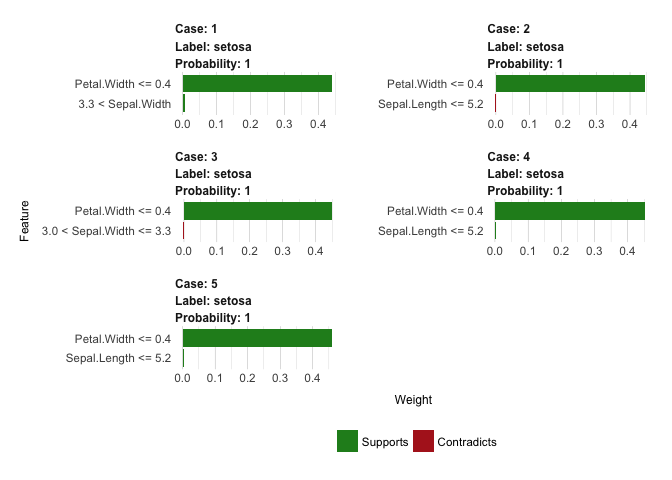
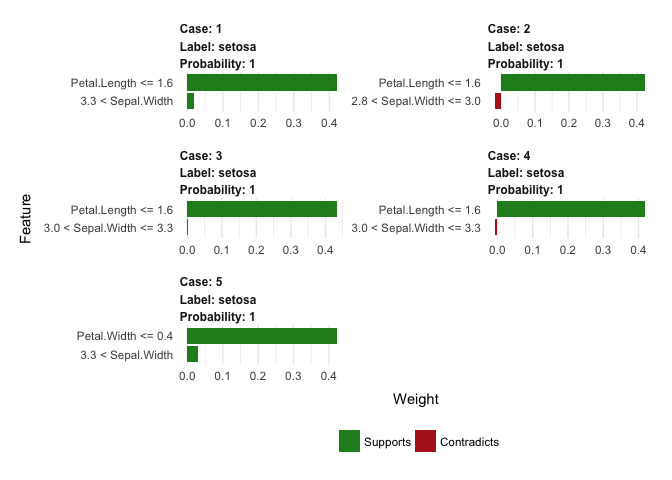
Prepare for CRAN

diff --git a/README.md b/README.md
@@ -5,7 +5,7 @@ lime <img src="man/figures/lime_logo.jpg" align="right" />
 
 [![Travis-CI Build Status](https://travis-ci.org/thomasp85/lime.svg?branch=master)](https://travis-ci.org/thomasp85/lime) [![AppVeyor Build Status](https://ci.appveyor.com/api/projects/status/github/thomasp85/lime?branch=master&svg=true)](https://ci.appveyor.com/project/thomasp85/lime) [![CRAN\_Release\_Badge](http://www.r-pkg.org/badges/version-ago/lime)](https://CRAN.R-project.org/package=lime) [![CRAN\_Download\_Badge](http://cranlogs.r-pkg.org/badges/lime)](https://CRAN.R-project.org/package=lime) [![Coverage Status](https://img.shields.io/codecov/c/github/thomasp85/lime/master.svg)](https://codecov.io/github/thomasp85/lime?branch=master)
 
-*This is an R port of the Python lime package (<https://github.com/marcotcr/lime>) developed by the authors of the lime (Local Interpretable Model-agnostic Explanations) approach for black-box model explanations. All credits goes to the original developers.*
+*This is an R port of the Python lime package (<https://github.com/marcotcr/lime>) developed by the authors of the lime (Local Interpretable Model-agnostic Explanations) approach for black-box model explanations. All credits for the invention of the approach goes to the original developers.*
 
 The purpose of `lime` is to explain the predictions of black box classifiers. What this means is that for any given prediction and any given classifier it is able to determine a small set of features in the original data that has driven the outcome of the prediction. To learn more about the methodology of `lime` read the [paper](https://arxiv.org/abs/1602.04938) and visit the repository of the [original implementation](https://github.com/marcotcr/lime).
 
@@ -40,19 +40,19 @@ explanation <- explain(iris_test, explainer, n_labels = 1, n_features = 2)
 # output from the model.
 head(explanation)
 #>       model_type case  label label_prob  model_r2 model_intercept
-#> 1 classification    1 setosa          1 0.3777422       0.2374550
-#> 2 classification    1 setosa          1 0.3777422       0.2374550
-#> 3 classification    2 setosa          1 0.3878390       0.2448414
-#> 4 classification    2 setosa          1 0.3878390       0.2448414
-#> 5 classification    3 setosa          1 0.3825474       0.2393573
-#> 6 classification    3 setosa          1 0.3825474       0.2393573
+#> 1 classification    1 setosa          1 0.3684307       0.2474188
+#> 2 classification    1 setosa          1 0.3684307       0.2474188
+#> 3 classification    2 setosa          1 0.3685114       0.2584363
+#> 4 classification    2 setosa          1 0.3685114       0.2584363
+#> 5 classification    3 setosa          1 0.3835383       0.2545897
+#> 6 classification    3 setosa          1 0.3835383       0.2545897
 #>        feature feature_value feature_weight             feature_desc
-#> 1  Sepal.Width           3.5    0.006152843        3.3 < Sepal.Width
-#> 2  Petal.Width           0.2    0.440652512       Petal.Width <= 0.4
-#> 3 Sepal.Length           4.9   -0.002913338      Sepal.Length <= 5.2
-#> 4  Petal.Width           0.2    0.443489998       Petal.Width <= 0.4
-#> 5  Sepal.Width           3.2   -0.004193284 3.0 < Sepal.Width <= 3.3
-#> 6  Petal.Width           0.2    0.450469575       Petal.Width <= 0.4
+#> 1  Sepal.Width           3.5    0.017175815        3.3 < Sepal.Width
+#> 2 Petal.Length           1.4    0.420994558      Petal.Length <= 1.6
+#> 3  Sepal.Width           3.0   -0.018026369 2.8 < Sepal.Width <= 3.0
+#> 4 Petal.Length           1.4    0.422960971      Petal.Length <= 1.6
+#> 5  Sepal.Width           3.2    0.000611429 3.0 < Sepal.Width <= 3.3
+#> 6 Petal.Length           1.3    0.433311088      Petal.Length <= 1.6
 #>                 data prediction
 #> 1 5.1, 3.5, 1.4, 0.2    1, 0, 0
 #> 2 5.1, 3.5, 1.4, 0.2    1, 0, 0
